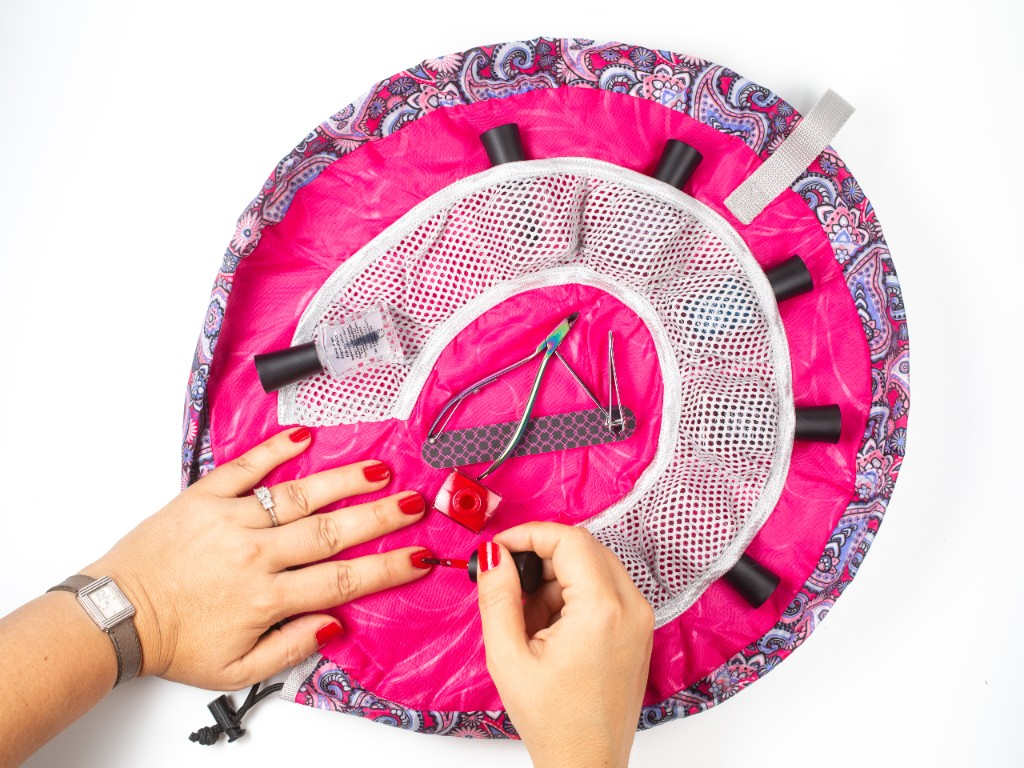
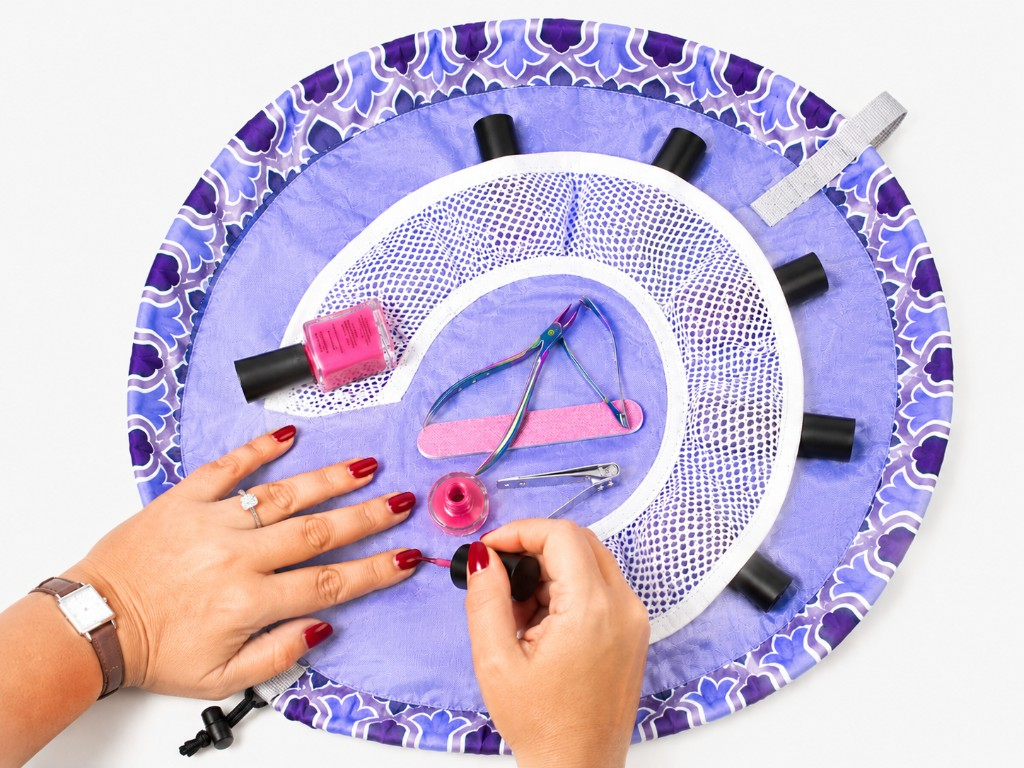
press category heroes

diff --git a/src/pages/static/PressCategory.tsx b/src/pages/static/PressCategory.tsx
@@ -4,6 +4,7 @@ import { ArrowLeft } from "lucide-react";
 
 import { StaticPageLayout } from "@/components/StaticPageLayout";
 import { PressCategoryArticleList } from "@/components/PressCategoryArticleList";
+import { PressCategoryHero } from "@/components/PressCategoryHero";
 import { articleCountLabel } from "@/lib/pressArchiveLayout";
 import {
   getPressCategoryBySlug,
@@ -11,6 +12,7 @@ import {
   getPressCategoryMeta,
   isPressCategorySlug,
 } from "@/lib/pressCategoryMeta";
+
 const PressCategory = () => {
   const { categorySlug } = useParams<{ categorySlug: string }>();
   const meta = categorySlug ? getPressCategoryMeta(categorySlug) : undefined;
@@ -25,37 +27,31 @@ const PressCategory = () => {
   }
 
   return (
-    <StaticPageLayout title={meta.displayTitle} contentClassName="max-w-3xl">
-      <Link
-        to="/pages/press"
-        className="not-prose mb-8 inline-flex items-center gap-2 text-sm text-muted-foreground transition-colors hover:text-foreground"
-      >
-        <ArrowLeft className="h-4 w-4" />
-        Back to press
-      </Link>
+    <StaticPageLayout title={meta.displayTitle} contentClassName="max-w-3xl" hidePageTitle>
+      <div className="not-prose -mt-2 space-y-8 sm:space-y-10">
+        <Link
+          to="/pages/press"
+          className="inline-flex items-center gap-2 text-sm text-muted-foreground transition-colors hover:text-foreground"
+        >
+          <ArrowLeft className="h-4 w-4" />
+          Back to press
+        </Link>
 
-      {image ? (
-        <div className="not-prose relative mb-8 aspect-[21/9] w-full overflow-hidden rounded-2xl border-2 border-black sm:aspect-[2.4/1]">
-          <img
-            src={image.src}
-            alt=""
-            className="absolute inset-0 h-full w-full object-cover"
-            style={{ objectPosition: image.objectPosition ?? "center" }}
-            loading="lazy"
-            decoding="async"
+        {image ? (
+          <PressCategoryHero
+            imageSrc={image.heroSrc}
+            imageAlt={image.alt}
+            title={meta.displayTitle}
+            objectPosition={image.heroObjectPosition ?? "center"}
           />
-          <div className="absolute inset-0 bg-black/35" aria-hidden />
-        </div>
-      ) : null}
+        ) : null}
 
-      <p className="not-prose -mt-2 mb-8 text-sm text-muted-foreground">
-        {articleCountLabel(category.articles.length)} in this collection.
-      </p>
+        <p className="text-sm text-muted-foreground">
+          {articleCountLabel(category.articles.length)} in this collection.
+        </p>
 
-      <PressCategoryArticleList
-        articles={category.articles}
-        showPublicationLogos={categorySlug === "gifts-roundups"}
-      />
+        <PressCategoryArticleList articles={category.articles} showPublicationLogos />
+      </div>
     </StaticPageLayout>
   );
 };

diff --git a/src/pages/static/PressYearRange.tsx b/src/pages/static/PressYearRange.tsx
@@ -1,8 +1,10 @@
 import { useMemo } from "react";
 import { Link, Navigate, useParams } from "react-router-dom";
 import { ArrowLeft } from "lucide-react";
+
 import { StaticPageLayout } from "@/components/StaticPageLayout";
-import { PressArticleTable } from "@/components/PressArticleTable";
+import { PressCategoryArticleList } from "@/components/PressCategoryArticleList";
+import { PressYearRangeHero } from "@/components/PressYearRangeHero";
 import {
   articleCountLabel,
   articlesForYearRange,
@@ -22,26 +24,31 @@ const PressYearRange = () => {
 
   const range = getPressYearRange(rangeId);
   const articles = articlesForYearRange(layout.articlesByYear, range.start, range.end);
+  const heroTitle = rangeId;
 
   return (
-    <StaticPageLayout title={`Press · ${range.label}`} contentClassName="max-w-6xl">
-      <Link
-        to="/pages/press"
-        className="not-prose mb-8 inline-flex items-center gap-2 text-sm text-muted-foreground transition-colors hover:text-foreground"
-      >
-        <ArrowLeft className="h-4 w-4" />
-        Back to press
-      </Link>
+    <StaticPageLayout title={range.label} contentClassName="max-w-3xl" hidePageTitle>
+      <div className="not-prose -mt-2 space-y-8 sm:space-y-10">
+        <Link
+          to="/pages/press"
+          className="inline-flex items-center gap-2 text-sm text-muted-foreground transition-colors hover:text-foreground"
+        >
+          <ArrowLeft className="h-4 w-4" />
+          Back to press
+        </Link>
 
-      <p className="not-prose -mt-4 mb-8 text-sm text-muted-foreground">
-        {articleCountLabel(articles.length)} from the Lay-n-Go archive.
-      </p>
+        <PressYearRangeHero title={heroTitle} />
 
-      {articles.length > 0 ? (
-        <PressArticleTable category={{ title: range.label, articles }} />
-      ) : (
-        <p className="text-muted-foreground">No articles in this range.</p>
-      )}
+        <p className="text-sm text-muted-foreground">
+          {articleCountLabel(articles.length)} from the Lay-n-Go archive.
+        </p>
+
+        {articles.length > 0 ? (
+          <PressCategoryArticleList articles={articles} showPublicationLogos />
+        ) : (
+          <p className="text-muted-foreground">No articles in this range.</p>
+        )}
+      </div>
     </StaticPageLayout>
   );
 };

diff --git a/src/components/PressCategoryHero.tsx b/src/components/PressCategoryHero.tsx
@@ -1,0 +1,55 @@
+import { cn } from "@/lib/utils";
+
+const cosmoDisplayHeadlineClass =
+  "text-center font-heading font-black uppercase leading-[0.92] tracking-tight text-white drop-shadow-[0_2px_18px_rgba(0,0,0,0.85)]";
+
+type PressCategoryHeroProps = {
+  imageSrc: string;
+  imageAlt: string;
+  title: string;
+  objectPosition?: string;
+};
+
+export const PressCategoryHero = ({
+  imageSrc,
+  imageAlt,
+  title,
+  objectPosition = "center",
+}: PressCategoryHeroProps) => (
+  <section
+    className="not-prose relative left-1/2 mb-10 w-screen max-w-[100vw] -translate-x-1/2 sm:mb-12"
+    aria-labelledby="press-category-hero-title"
+  >
+    <div className="relative aspect-[5/2] min-h-[11rem] w-full overflow-hidden bg-black sm:aspect-[21/8] sm:min-h-[13rem] md:min-h-[15rem] lg:aspect-[3/1] lg:min-h-[17rem]">
+      <img
+        src={imageSrc}
+        alt={imageAlt}
+        className="absolute inset-0 h-full w-full scale-[1.02] object-cover"
+        style={{ objectPosition }}
+        loading="eager"
+        decoding="async"
+      />
+
+      {/* Vignette — darker edges, clearer center for headline */}
+      <div
+        className="pointer-events-none absolute inset-0 bg-[radial-gradient(ellipse_85%_95%_at_50%_50%,transparent_0%,transparent_42%,rgba(0,0,0,0.35)_72%,rgba(0,0,0,0.72)_100%)]"
+        aria-hidden
+      />
+      <div
+        className="pointer-events-none absolute inset-0 bg-gradient-to-t from-black/55 via-black/10 to-black/40"
+        aria-hidden
+      />
+
+      <h1
+        id="press-category-hero-title"
+        className={cn(
+          cosmoDisplayHeadlineClass,
+          "absolute inset-0 z-10 flex items-center justify-center px-5 py-10 sm:px-10",
+          "text-[clamp(1.35rem,5.5vw,2.75rem)] sm:text-[clamp(1.5rem,4.5vw,3.25rem)] lg:text-[clamp(1.75rem,3.8vw,3.75rem)]",
+        )}
+      >
+        <span className="max-w-[min(100%,52rem)]">{title}</span>
+      </h1>
+    </div>
+  </section>
+);

diff --git a/src/lib/pressCategoryImages.ts b/src/lib/pressCategoryImages.ts
@@ -1,19 +1,34 @@
-/** Hero images for consolidated press topic boxes. */
-export const PRESS_CATEGORY_IMAGES: Record<
-  string,
-  { src: string; alt: string; /** CSS object-position for card crop, e.g. `50% 35%` */ objectPosition?: string }
-> = {
+/** Hero images for press topic cards and category pages. */
+export type PressCategoryImage = {
+  /** Square/card thumbnail on the main press page. */
+  src: string;
+  /** Wide hero banner on category detail pages. */
+  heroSrc: string;
+  alt: string;
+  /** CSS object-position for card crop. */
+  objectPosition?: string;
+  /** CSS object-position for page hero (defaults to center). */
+  heroObjectPosition?: string;
+};
+
+export const PRESS_CATEGORY_IMAGES: Record<string, PressCategoryImage> = {
   "🌍 Travel & Lifestyle": {
     src: "/press/category-travel-lifestyle.png",
+    heroSrc: "/press/category-hero-travel-lifestyle.png?v=1",
     alt: "Person walking outdoors at golden hour with Lay-n-Go gear",
+    heroObjectPosition: "50% 50%",
   },
   "🛍 Gifts & Product Roundups": {
     src: "/press/category-gifts-roundups.png",
+    heroSrc: "/press/category-hero-gifts-roundups.png?v=1",
     alt: "TODAY show segment featuring Lay-n-Go products on Bobbie's Buzz",
+    heroObjectPosition: "50% 50%",
   },
   "🏆 Business & Entrepreneurship": {
     src: "/press/category-business-entrepreneurship.png?v=2",
-    alt: "Speaker at U.S. Committee on Small Business with the Capitol in the background",
+    heroSrc: "/press/category-hero-business-entrepreneurship.png?v=1",
+    alt: "U.S. Committee on Small Business press event at the Capitol",
     objectPosition: "50% 30%",
+    heroObjectPosition: "50% 50%",
   },
 };

diff --git a/src/components/StaticPageLayout.tsx b/src/components/StaticPageLayout.tsx
@@ -7,9 +7,16 @@ interface StaticPageLayoutProps {
   children: React.ReactNode;
   /** Main content max width (default: narrow prose column). */
   contentClassName?: string;
+  /** Use when the visible page title is rendered inside children (e.g. hero banner). */
+  hidePageTitle?: boolean;
 }
 
-export const StaticPageLayout = ({ title, children, contentClassName }: StaticPageLayoutProps) => {
+export const StaticPageLayout = ({
+  title,
+  children,
+  contentClassName,
+  hidePageTitle = false,
+}: StaticPageLayoutProps) => {
   return (
     <div className="min-h-screen bg-background flex flex-col">
       <Header />
@@ -17,7 +24,11 @@ export const StaticPageLayout = ({ title, children, contentClassName }: StaticPa
         id="main-content"
         className={cn("flex-1 container py-10", contentClassName ?? "max-w-3xl")}
       >
-        <h1 className="font-heading text-3xl md:text-4xl font-bold text-foreground mb-8">{title}</h1>
+        {hidePageTitle ? (
+          <h1 className="sr-only">{title}</h1>
+        ) : (
+          <h1 className="font-heading text-3xl md:text-4xl font-bold text-foreground mb-8">{title}</h1>
+        )}
         <div className="prose prose-neutral max-w-none prose-p:text-muted-foreground prose-headings:font-heading prose-headings:text-foreground prose-strong:text-foreground prose-li:text-muted-foreground">
           {children}
         </div>

diff --git a/src/lib/pressPublicationLogos.ts b/src/lib/pressPublicationLogos.ts
@@ -3,8 +3,40 @@ export type PressPublicationLogo = {
   alt: string;
 };
 
-/** Publication logos for gifts & roundups category rows. */
+/** Publication logos for press category article rows. */
 export const PRESS_PUBLICATION_LOGOS: Record<string, PressPublicationLogo> = {
+  "Condé Nast Traveler": {
+    src: "/press/logos/cntraveler.png",
+    alt: "Condé Nast Traveler",
+  },
+  GoNomad: {
+    src: "/press/logos/gonomad.png",
+    alt: "GoNomad",
+  },
+  "TODAY / Bobbie Thomas": {
+    src: "/press/logos/today.png",
+    alt: "TODAY",
+  },
+  "Inc. Magazine": {
+    src: "/press/logos/inc.png",
+    alt: "Inc. Magazine",
+  },
+  "The Female Founder Show / ASBN": {
+    src: "/press/logos/asbn.png",
+    alt: "The Female Founder Show on ASBN",
+  },
+  "Women Who Own It": {
+    src: "/press/logos/women-owned.png",
+    alt: "Women Who Own It",
+  },
+  "U.S. Chamber of Commerce / CO—": {
+    src: "/press/logos/us-chamber-co.png",
+    alt: "CO— by U.S. Chamber of Commerce",
+  },
+  "Good Morning America": {
+    src: "/press/logos/gma.png",
+    alt: "Good Morning America Deals and Steals",
+  },
   "Oprah Daily": {
     src: "/press/logos/oprah-daily.png",
     alt: "Oprah Daily",

diff --git a/src/components/PressYearRangeHero.tsx b/src/components/PressYearRangeHero.tsx
@@ -1,0 +1,33 @@
+import { cn } from "@/lib/utils";
+
+const cosmoDisplayHeadlineClass =
+  "text-center font-heading font-black leading-[0.88] tracking-tight text-white";
+
+type PressYearRangeHeroProps = {
+  /** e.g. `2017-2018` */
+  title: string;
+};
+
+export const PressYearRangeHero = ({ title }: PressYearRangeHeroProps) => (
+  <section
+    className="not-prose relative left-1/2 mb-10 w-screen max-w-[100vw] -translate-x-1/2 sm:mb-12"
+    aria-labelledby="press-year-range-hero-title"
+  >
+    <div className="relative flex min-h-[11rem] w-full items-center justify-center overflow-hidden bg-foreground px-6 py-14 sm:min-h-[13rem] sm:px-10 md:min-h-[16rem] lg:min-h-[18rem]">
+      <div
+        className="pointer-events-none absolute inset-0 bg-[radial-gradient(ellipse_90%_100%_at_50%_50%,rgba(255,255,255,0.06)_0%,transparent_45%,rgba(0,0,0,0.45)_100%)]"
+        aria-hidden
+      />
+
+      <h1
+        id="press-year-range-hero-title"
+        className={cn(
+          cosmoDisplayHeadlineClass,
+          "relative z-10 text-[clamp(2.75rem,14vw,6.5rem)] sm:text-[clamp(3.25rem,12vw,7.5rem)]",
+        )}
+      >
+        {title}
+      </h1>
+    </div>
+  </section>
+);

diff --git a/src/components/NailspaPdpStory.tsx b/src/components/NailspaPdpStory.tsx
@@ -6,7 +6,7 @@ import { useCallback, useEffect, useLayoutEffect, useMemo, useRef, useState, typ
 import { cn } from "@/lib/utils";
 
 const HEADLINE = "THE NAIL BAG THAT ACTUALLY GETS IT.";
-const IMG_MAIN = "/nailspa-pdp/story/image1.png";
+const IMG_MAIN = "/nailspa-pdp/story/image1.png?v=2";
 const IMG_BOTTOM = "/nailspa-pdp/story/bottom-hero.png";
 const IMG_BOTTOM_HOOK = "/nailspa-pdp/story/bottom-hook.png";
 
